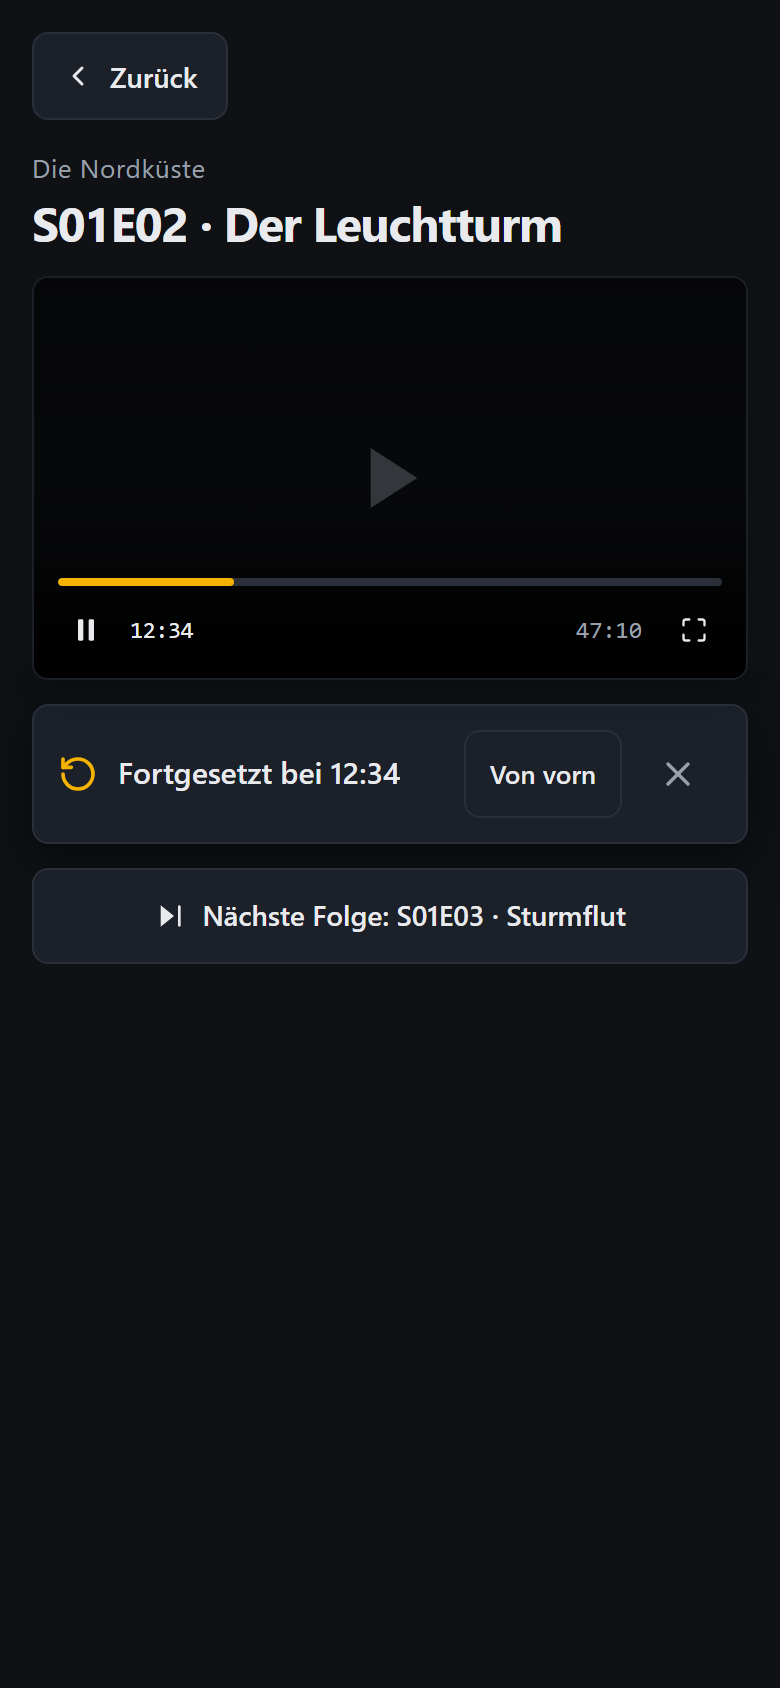
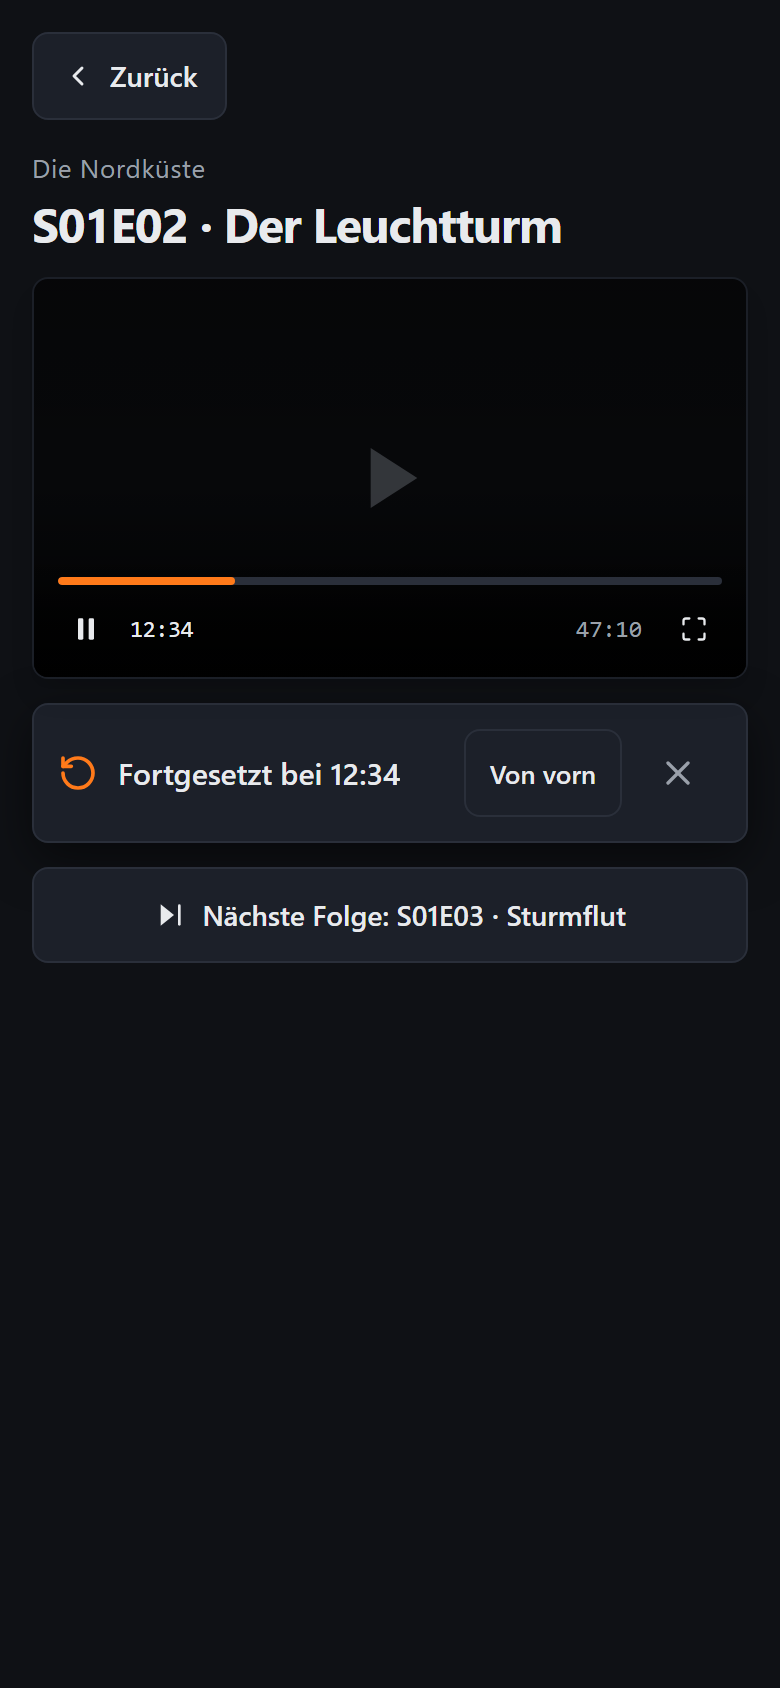
docs(design): re-export progress-resume mockups with primary #ff7a1a
The primary token changed from amber to vivid orange (#5); mockups and colour wording in the spec now match the design contract. Layout, copy and framing are unchanged; verified by pixel counts and side-by-side review.

diff --git a/docs/design/assets/progress-resume/player-resume-mobile.html b/docs/design/assets/progress-resume/player-resume-mobile.html
@@ -9,7 +9,7 @@
     :root {
       --color-background: #0f1115;
       --color-foreground: #e8eaed;
-      --color-primary: #f5b301;
+      --color-primary: #ff7a1a;
       --color-secondary: #1c2029;
       --color-muted: #9aa0aa;
       --color-border: #2a2f3a;
@@ -36,7 +36,7 @@
     <div class="mb-4">
       <button 
         type="button" 
-        class="inline-flex items-center gap-2 h-[44px] px-3.5 rounded-[8px] bg-[#1c2029] border border-[#2a2f3a] text-[#e8eaed] text-[14px] font-medium hover:bg-[#252a36] active:bg-[#161a22] focus:outline-none focus:ring-2 focus:ring-[#f5b301] focus:ring-offset-2 focus:ring-offset-[#0f1115] transition-colors"
+        class="inline-flex items-center gap-2 h-[44px] px-3.5 rounded-[8px] bg-[#1c2029] border border-[#2a2f3a] text-[#e8eaed] text-[14px] font-medium hover:bg-[#252a36] active:bg-[#161a22] focus:outline-none focus:ring-2 focus:ring-[#ff7a1a] focus:ring-offset-2 focus:ring-offset-[#0f1115] transition-colors"
         aria-label="Zurück zur Übersicht"
       >
         <svg class="w-4 h-4 text-[#e8eaed]" viewBox="0 0 24 24" fill="none" stroke="currentColor" stroke-width="2.2" stroke-linecap="round" stroke-linejoin="round" aria-hidden="true">
@@ -77,14 +77,14 @@
       <div class="relative z-10 w-full px-3 py-2.5 bg-gradient-to-t from-black/90 via-black/60 to-transparent flex flex-col gap-1.5">
         <!-- Scrubber Bar -->
         <div class="relative w-full h-1 bg-[#2a2f3a] rounded-full overflow-hidden cursor-pointer" role="progressbar" aria-valuenow="26" aria-valuemin="0" aria-valuemax="100">
-          <div class="absolute top-0 left-0 bottom-0 bg-[#f5b301] rounded-full" style="width: 26.6%;"></div>
+          <div class="absolute top-0 left-0 bottom-0 bg-[#ff7a1a] rounded-full" style="width: 26.6%;"></div>
         </div>
 
         <!-- Controls Row -->
         <div class="flex items-center justify-between text-[12px] font-mono text-[#e8eaed] pt-0.5">
           <div class="flex items-center gap-2">
             <!-- Pause Icon -->
-            <button type="button" class="w-7 h-7 flex items-center justify-center text-[#e8eaed] hover:text-[#f5b301] focus:outline-none focus:ring-1 focus:ring-[#f5b301] rounded" aria-label="Wiedergabe pausieren">
+            <button type="button" class="w-7 h-7 flex items-center justify-center text-[#e8eaed] hover:text-[#ff7a1a] focus:outline-none focus:ring-1 focus:ring-[#ff7a1a] rounded" aria-label="Wiedergabe pausieren">
               <svg class="w-4 h-4 fill-current" viewBox="0 0 24 24">
                 <rect x="6" y="4" width="4" height="16" rx="1"></rect>
                 <rect x="14" y="4" width="4" height="16" rx="1"></rect>
@@ -96,7 +96,7 @@
           <div class="flex items-center gap-2">
             <span class="text-[#9aa0aa] text-[12px]">47:10</span>
             <!-- Fullscreen Icon -->
-            <button type="button" class="w-7 h-7 flex items-center justify-center text-[#e8eaed] hover:text-[#f5b301] focus:outline-none focus:ring-1 focus:ring-[#f5b301] rounded ml-1" aria-label="Vollbildmodus aktivieren">
+            <button type="button" class="w-7 h-7 flex items-center justify-center text-[#e8eaed] hover:text-[#ff7a1a] focus:outline-none focus:ring-1 focus:ring-[#ff7a1a] rounded ml-1" aria-label="Vollbildmodus aktivieren">
               <svg class="w-3.5 h-3.5" viewBox="0 0 24 24" fill="none" stroke="currentColor" stroke-width="2" stroke-linecap="round" stroke-linejoin="round">
                 <path d="M8 3H5a2 2 0 0 0-2 2v3m18 0V5a2 2 0 0 0-2-2h-3m0 18h3a2 2 0 0 0 2-2v-3M3 16v3a2 2 0 0 0 2 2h3"></path>
               </svg>
@@ -111,10 +111,10 @@
       aria-label="Wiedergabehinweis"
       class="w-full bg-[#1c2029] border border-[#2a2f3a] rounded-[8px] p-3 mb-3 shadow-[0_8px_24px_rgba(0,0,0,0.5)] flex items-center justify-between gap-2"
     >
-      <!-- Left side: Circular-arrow SVG in amber & Text -->
+      <!-- Left side: Circular-arrow SVG in orange & Text -->
       <div class="flex items-center gap-2.5 min-w-0 pr-1">
-        <!-- Circular arrow icon in amber #f5b301 -->
-        <div class="w-5 h-5 flex-shrink-0 text-[#f5b301] flex items-center justify-center">
+        <!-- Circular arrow icon in orange #ff7a1a -->
+        <div class="w-5 h-5 flex-shrink-0 text-[#ff7a1a] flex items-center justify-center">
           <svg class="w-5 h-5" viewBox="0 0 24 24" fill="none" stroke="currentColor" stroke-width="2.2" stroke-linecap="round" stroke-linejoin="round" aria-hidden="true">
             <path d="M3 12a9 9 0 1 0 9-9 9.75 9.75 0 0 0-6.74 2.74L3 8"></path>
             <polyline points="3 3 3 8 8 8"></polyline>
@@ -129,13 +129,13 @@
       <div class="flex items-center gap-1.5 flex-shrink-0">
         <button 
           type="button" 
-          class="h-[44px] px-3 rounded-[8px] bg-transparent border border-[#2a2f3a] text-[#e8eaed] text-[13px] font-medium hover:bg-[#252a36] active:bg-[#161a22] focus:outline-none focus:ring-2 focus:ring-[#f5b301] transition-colors"
+          class="h-[44px] px-3 rounded-[8px] bg-transparent border border-[#2a2f3a] text-[#e8eaed] text-[13px] font-medium hover:bg-[#252a36] active:bg-[#161a22] focus:outline-none focus:ring-2 focus:ring-[#ff7a1a] transition-colors"
         >
           Von vorn
         </button>
         <button 
           type="button" 
-          class="w-[44px] h-[44px] flex items-center justify-center rounded-[8px] text-[#9aa0aa] hover:text-[#e8eaed] hover:bg-[#252a36] active:bg-[#161a22] focus:outline-none focus:ring-2 focus:ring-[#f5b301] transition-colors"
+          class="w-[44px] h-[44px] flex items-center justify-center rounded-[8px] text-[#9aa0aa] hover:text-[#e8eaed] hover:bg-[#252a36] active:bg-[#161a22] focus:outline-none focus:ring-2 focus:ring-[#ff7a1a] transition-colors"
           aria-label="Hinweis schließen"
           title="Hinweis schließen"
         >
@@ -151,7 +151,7 @@
     <div class="w-full">
       <button 
         type="button" 
-        class="w-full min-h-[44px] h-[48px] px-4 rounded-[8px] bg-[#1c2029] border border-[#2a2f3a] text-[#e8eaed] text-[14px] font-medium flex items-center justify-center gap-2 hover:bg-[#252a36] active:bg-[#161a22] focus:outline-none focus:ring-2 focus:ring-[#f5b301] focus:ring-offset-2 focus:ring-offset-[#0f1115] transition-colors"
+        class="w-full min-h-[44px] h-[48px] px-4 rounded-[8px] bg-[#1c2029] border border-[#2a2f3a] text-[#e8eaed] text-[14px] font-medium flex items-center justify-center gap-2 hover:bg-[#252a36] active:bg-[#161a22] focus:outline-none focus:ring-2 focus:ring-[#ff7a1a] focus:ring-offset-2 focus:ring-offset-[#0f1115] transition-colors"
       >
         <svg class="w-4 h-4 text-[#e8eaed] flex-shrink-0" viewBox="0 0 24 24" fill="currentColor" aria-hidden="true">
           <polygon points="5 4 15 12 5 20 5 4"></polygon>

diff --git a/docs/design/assets/progress-resume/home-continue-desktop.html b/docs/design/assets/progress-resume/home-continue-desktop.html
@@ -8,7 +8,7 @@
     :root {
       --color-background: #0f1115;
       --color-foreground: #e8eaed;
-      --color-primary: #f5b301;
+      --color-primary: #ff7a1a;
       --color-secondary: #1c2029;
       --color-secondary-hover: #262b37;
       --color-accent: #4fb3ff;
@@ -224,7 +224,7 @@
     }
 
     .wide-card:hover .wide-thumbnail-wrap {
-      border-color: rgba(245, 179, 1, 0.4);
+      border-color: rgba(255, 122, 26, 0.4);
       transform: translateY(-2px);
     }
 
@@ -354,7 +354,7 @@
     }
 
     .poster-card:hover .poster-wrap {
-      border-color: rgba(245, 179, 1, 0.4);
+      border-color: rgba(255, 122, 26, 0.4);
       transform: translateY(-2px);
     }
 
@@ -403,9 +403,9 @@
     <div class="header-inner">
       <a href="#" class="brand" aria-label="Videothek Startseite">
         <div class="brand-icon">
-          <!-- Play icon in amber -->
+          <!-- Play icon in orange -->
           <svg width="14" height="16" viewBox="0 0 14 16" fill="none" xmlns="http://www.w3.org/2000/svg">
-            <path d="M12.5 7.13397C13.1667 7.51887 13.1667 8.48113 12.5 8.86603L2 14.9282C1.33333 15.3131 0.5 14.832 0.5 14.0622L0.5 1.93782C0.5 1.16802 1.33333 0.686895 2 1.0718L12.5 7.13397Z" fill="#f5b301"/>
+            <path d="M12.5 7.13397C13.1667 7.51887 13.1667 8.48113 12.5 8.86603L2 14.9282C1.33333 15.3131 0.5 14.832 0.5 14.0622L0.5 1.93782C0.5 1.16802 1.33333 0.686895 2 1.0718L12.5 7.13397Z" fill="#ff7a1a"/>
           </svg>
         </div>
         <span class="brand-title">Videothek</span>

diff --git a/docs/design/assets/progress-resume/player-resume-desktop.html b/docs/design/assets/progress-resume/player-resume-desktop.html
@@ -8,7 +8,7 @@
     :root {
       --bg: #0f1115;
       --fg: #e8eaed;
-      --primary: #f5b301;
+      --primary: #ff7a1a;
       --secondary: #1c2029;
       --muted: #9aa0aa;
       --border: #2a2f3a;
@@ -409,7 +409,7 @@
         <div class="resume-toast">
           <div class="toast-info">
             <span class="toast-icon" aria-hidden="true">
-              <!-- Circular arrow / resume icon in amber -->
+              <!-- Circular arrow / resume icon in orange -->
               <svg width="20" height="20" viewBox="0 0 24 24" fill="none" stroke="currentColor" stroke-width="2.2" stroke-linecap="round" stroke-linejoin="round">
                 <path d="M21.5 2v6h-6"></path>
                 <path d="M21.34 15.57a10 10 0 1 1-.57-8.38l5.67-5.19"></path>

diff --git a/docs/design/assets/progress-resume/home-continue-mobile.html b/docs/design/assets/progress-resume/home-continue-mobile.html
@@ -9,7 +9,7 @@
     :root {
       --bg: #0f1115;
       --fg: #e8eaed;
-      --primary: #f5b301;
+      --primary: #ff7a1a;
       --secondary: #1c2029;
       --accent: #4fb3ff;
       --muted: #9aa0aa;
@@ -494,7 +494,7 @@
               </svg>
             </div>
             <span class="poster-title-hint">Lola rennt</span>
-            <!-- 4px amber progress bar at the poster bottom -->
+            <!-- 4px orange progress bar at the poster bottom -->
             <div class="progress-bar-container" role="progressbar" aria-valuenow="65" aria-valuemin="0" aria-valuemax="100">
               <div class="progress-bar-fill" style="width: 65%;"></div>
             </div>

diff --git a/docs/specs/spec-progress-resume.md b/docs/specs/spec-progress-resume.md
@@ -18,7 +18,7 @@ moved to `docs/specs/archive/`.
 - [ ] While a video plays, its position is persisted at least every 10 s and
       immediately on pause, end, tab hide and page leave.
 - [ ] The start page shows a "Weiterschauen" row of the user's in-progress
-      movies and episodes (most recent first, 4 px amber progress bar, remaining
+      movies and episodes (most recent first, 4 px primary (orange) progress bar, remaining
       time); the row is absent when there is nothing to continue.
 - [ ] A video watched to ≥ 90 % leaves the row and shows a "Gesehen" badge on its
       movie card / episode row; a started one shows the 4 px bar there.
@@ -211,7 +211,7 @@ continues with the next season's first, and the finale yields nothing.
   requests
   `GET /api/progress?category=movie,series` (limit 20); hidden when empty or when
   the request fails. Card = 16:9 placeholder (no video thumbnails in v1), 4 px
-  amber bar = position/duration, title (series title for episodes, movie title
+  primary (orange) bar = position/duration, title (series title for episodes, movie title
   otherwise, one line + ellipsis), muted meta (`S1 · F3 · Noch 24 Min.` /
   `Noch 1 Std. 52 Min.`; the `S · F` part is omitted when P2 has no numbers for
   the episode); the card links to `/player.html?id=<id>` (P3).
@@ -225,7 +225,7 @@ continues with the next season's first, and the finale yields nothing.
 - **Grid decoration** (`public/js/lib/progress-badges.js`): P2's movie grid and
   episode list call `decorateProgress(root, entries)` after rendering, with one
   `GET /api/progress?view=all&category=movie|series` per page. `in_progress` →
-  4 px amber bar on the thumbnail/row bottom plus visually hidden text
+  4 px primary (orange) bar on the thumbnail/row bottom plus visually hidden text
   "Zu 45 % gesehen"; `finished` → badge with check SVG and "Gesehen"; `none` →
   nothing. A failed request leaves the page undecorated (progress is an
   enhancement).
@@ -390,7 +390,7 @@ mobile 390 px and desktop 1440 px, compared with the design exports):
       10 s, none while paused, one on pause and one on tab close; no request to
       any external host.
 - [ ] Start page: the movie appears first in "Weiterschauen" with a proportional
-      4 px amber bar and "Noch … Min."; an episode shows `S1 · F3 · Noch … Min.`;
+      4 px primary (orange) bar and "Noch … Min."; an episode shows `S1 · F3 · Noch … Min.`;
       a new user sees no row at all.
 - [ ] Seek a movie past 90 % and stop: it leaves the row; its movie card shows
       "Gesehen"; reopening starts at 0:00 without toast. Open it and close
